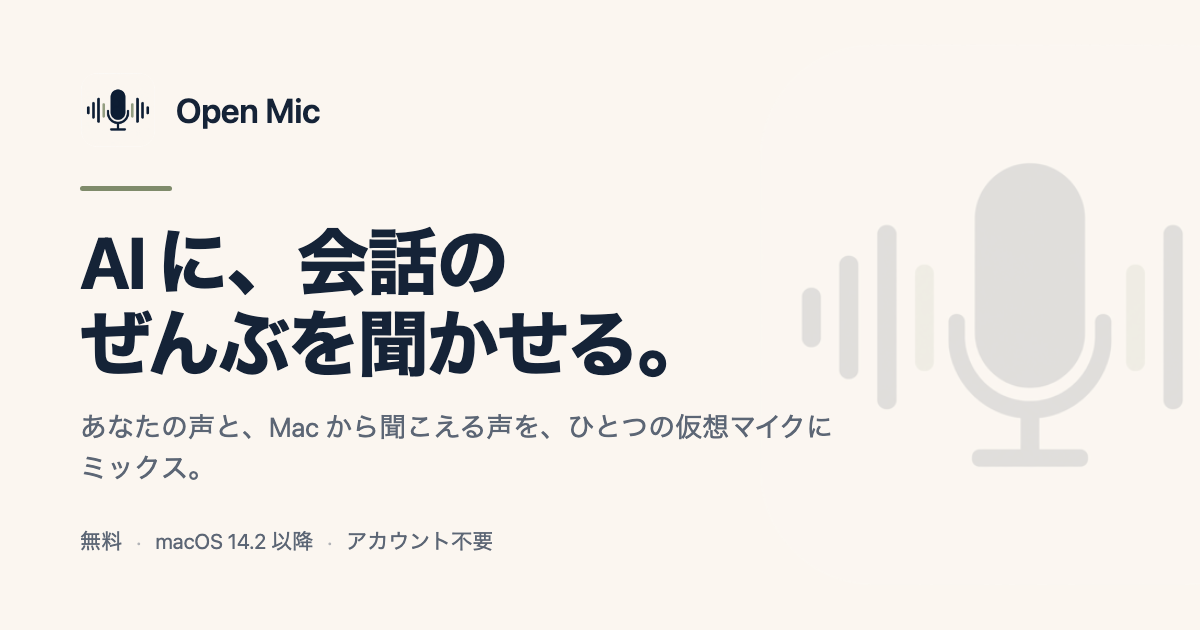
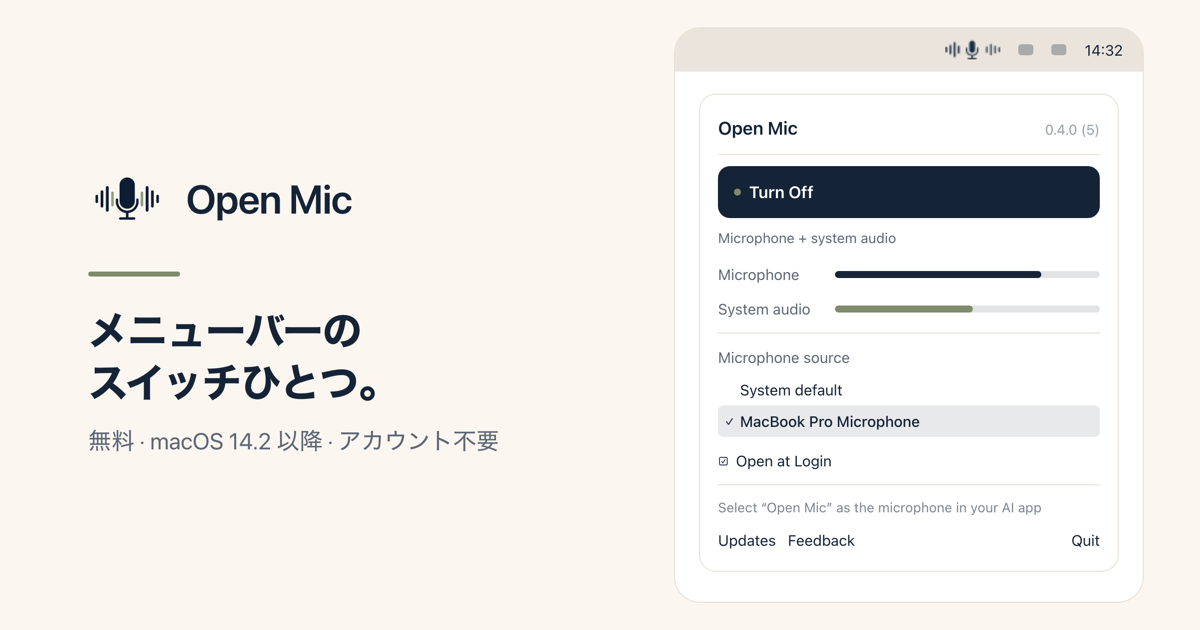
Stop the card saying what the card already says
The image carried the headline and the tagline, and every platform prints its
own title and description underneath — so a shared link read the same two
sentences twice, once as a picture and once as text.

The card now shows the panel, which is the one thing the words underneath
cannot convey, and the only line on it is about how it is used rather than what
it does. It is rendered from the site's own stylesheet, so the mock cannot
drift away from the one on the page; og-card.html is kept beside the images for
the next time it needs regenerating.

Also brings the version in the mock up to 0.4.0 (5) — it still read 0.3.0 (4),
which is the panel that shipped before this one.

diff --git a/assets/og-card.html b/assets/og-card.html
@@ -1,0 +1,81 @@
+<!doctype html>
+<meta charset="utf-8">
+<link rel="stylesheet" href="assets/site.css">
+<style>
+  /* The card shows the thing itself. The platform always prints the title and
+     the description underneath, so a card that also spells out the headline and
+     the tagline makes the reader read the same two sentences twice — which is
+     what the first version did. The panel is what those sentences cannot say. */
+  html, body { width: 1200px; height: 630px; margin: 0; overflow: hidden; }
+  body {
+    background: var(--bg);
+    display: grid; grid-template-columns: 1fr auto;
+    align-items: center; gap: 48px;
+    padding: 0 56px 0 88px;
+  }
+  .brand { display: flex; align-items: center; gap: 20px; margin-bottom: 34px; }
+  .brand img { width: 78px; height: 78px; border-radius: 21px; display: block; }
+  .brand span { font-size: 40px; font-weight: 600; letter-spacing: -.02em; }
+  .line { height: 5px; width: 92px; background: var(--sage); border-radius: 3px; margin-bottom: 28px; }
+  .say { font-size: 40px; font-weight: 700; line-height: 1.3; letter-spacing: -.02em;
+         word-break: auto-phrase; max-width: 11em; }
+  .say .soft { color: var(--ink-soft); font-weight: 400; font-size: 23px;
+               display: block; margin-top: 18px; letter-spacing: 0;
+               white-space: nowrap; }
+  .shot { margin-right: 0; }
+  .mock { width: 470px; }
+  /* Bigger than on the site, because the card is looked at small. Scaling the
+     type rather than the box keeps the panel's own proportions. */
+  .mock .menu { max-width: 100%; font-size: 17px; padding: 18px; border-radius: 17px; }
+  .mock .menu .head { font-size: 18px; }
+  .mock .menu .head .ver { font-size: 14px; }
+  .mock .toggle { font-size: 16.5px; padding: 12px 16px; border-radius: 12px; }
+  .mock .status { font-size: 14px; }
+  .mock .level, .mock .opt, .mock .check, .mock .field, .mock .links { font-size: 15px; }
+  .mock .level .name { width: 108px; }
+  .mock .hint { font-size: 13.5px; }
+  .mock-menubar { font-size: 15px; padding: 9px 20px; }
+  .mock-menubar img { height: 22px; }
+  .mock-body { padding: 22px 24px 30px; }
+</style>
+<div>
+  <div class="brand"><img src="assets/icon.png" alt=""><span>Open Mic</span></div>
+  <div class="line"></div>
+  <p class="say" id="say"></p>
+</div>
+<div class="shot">
+  <div class="mock">
+    <div class="mock-menubar">
+      <img src="assets/menubar-item.png" alt="">
+      <span class="chip"></span><span class="chip"></span><span>14:32</span>
+    </div>
+    <div class="mock-body">
+      <div class="menu">
+        <div class="head"><span>Open Mic</span><span class="ver">0.4.0 (5)</span></div>
+        <div class="sep"></div>
+        <div class="toggle"><span class="dot"></span>Turn Off</div>
+        <div class="status">Microphone + system audio</div>
+        <div class="levels">
+          <div class="level"><span class="name">Microphone</span><span class="track"><span class="fill" style="width:78%"></span></span></div>
+          <div class="level"><span class="name">System audio</span><span class="track"><span class="fill sage" style="width:52%"></span></span></div>
+        </div>
+        <div class="sep"></div>
+        <div class="field">Microphone source</div>
+        <div class="opt"><span class="tick"></span>System default</div>
+        <div class="opt sel"><span class="tick"></span>MacBook Pro Microphone</div>
+        <div class="check"><span class="box">☑</span>Open at Login</div>
+        <div class="sep"></div>
+        <div class="hint">Select “Open Mic” as the microphone in your AI app</div>
+        <div class="links"><span>Updates</span><span>Feedback</span><span class="end">Quit</span></div>
+      </div>
+    </div>
+  </div>
+</div>
+<script>
+  const lang = new URLSearchParams(location.search).get("lang") || "en";
+  document.documentElement.lang = lang;
+  document.getElementById("say").innerHTML = {
+    en: 'One switch in the<br>menu bar.<span class="soft">Free · macOS 14.2 or later · No account</span>',
+    ja: 'メニューバーの<br>スイッチひとつ。<span class="soft">無料 · macOS 14.2 以降 · アカウント不要</span>'
+  }[lang];
+</script>

diff --git a/ja/index.html b/ja/index.html
@@ -22,7 +22,7 @@
 <meta property="og:image" content="https://tkkrtky.github.io/OpenMic/assets/og-ja.png">
 <meta property="og:image:width" content="1200">
 <meta property="og:image:height" content="630">
-<meta property="og:image:alt" content="Open Mic — AI に、会話のぜんぶを聞かせる">
+<meta property="og:image:alt" content="メニューバーで動作している Open Mic のパネル。マイクとシステム音声のバランスが別々に表示されている">
 <meta name="twitter:card" content="summary_large_image">
 <meta name="twitter:title" content="Open Mic — AI に、会話のぜんぶを聞かせる">
 <meta name="twitter:description" content="あなたの声と、Mac から聞こえる声を、ひとつの仮想マイクにミックス。">
@@ -64,7 +64,7 @@
       </div>
       <div class="mock-body">
         <div class="menu">
-          <div class="head"><span>Open Mic</span><span class="ver">0.3.0 (4)</span></div>
+          <div class="head"><span>Open Mic</span><span class="ver">0.4.0 (5)</span></div>
           <div class="sep"></div>
           <div class="toggle"><span class="dot"></span>Turn Off</div>
           <div class="status">Microphone + system audio</div>

diff --git a/index.html b/index.html
@@ -22,7 +22,7 @@
 <meta property="og:image" content="https://tkkrtky.github.io/OpenMic/assets/og.png">
 <meta property="og:image:width" content="1200">
 <meta property="og:image:height" content="630">
-<meta property="og:image:alt" content="Open Mic — let your AI hear the whole conversation">
+<meta property="og:image:alt" content="The Open Mic panel in the macOS menu bar, with separate levels for the microphone and system audio">
 <meta name="twitter:card" content="summary_large_image">
 <meta name="twitter:title" content="Open Mic — let your AI hear the whole conversation">
 <meta name="twitter:description" content="Mix your microphone and your Mac's audio into one virtual microphone.">
@@ -64,7 +64,7 @@
       </div>
       <div class="mock-body">
         <div class="menu">
-          <div class="head"><span>Open Mic</span><span class="ver">0.3.0 (4)</span></div>
+          <div class="head"><span>Open Mic</span><span class="ver">0.4.0 (5)</span></div>
           <div class="sep"></div>
           <div class="toggle"><span class="dot"></span>Turn Off</div>
           <div class="status">Microphone + system audio</div>
